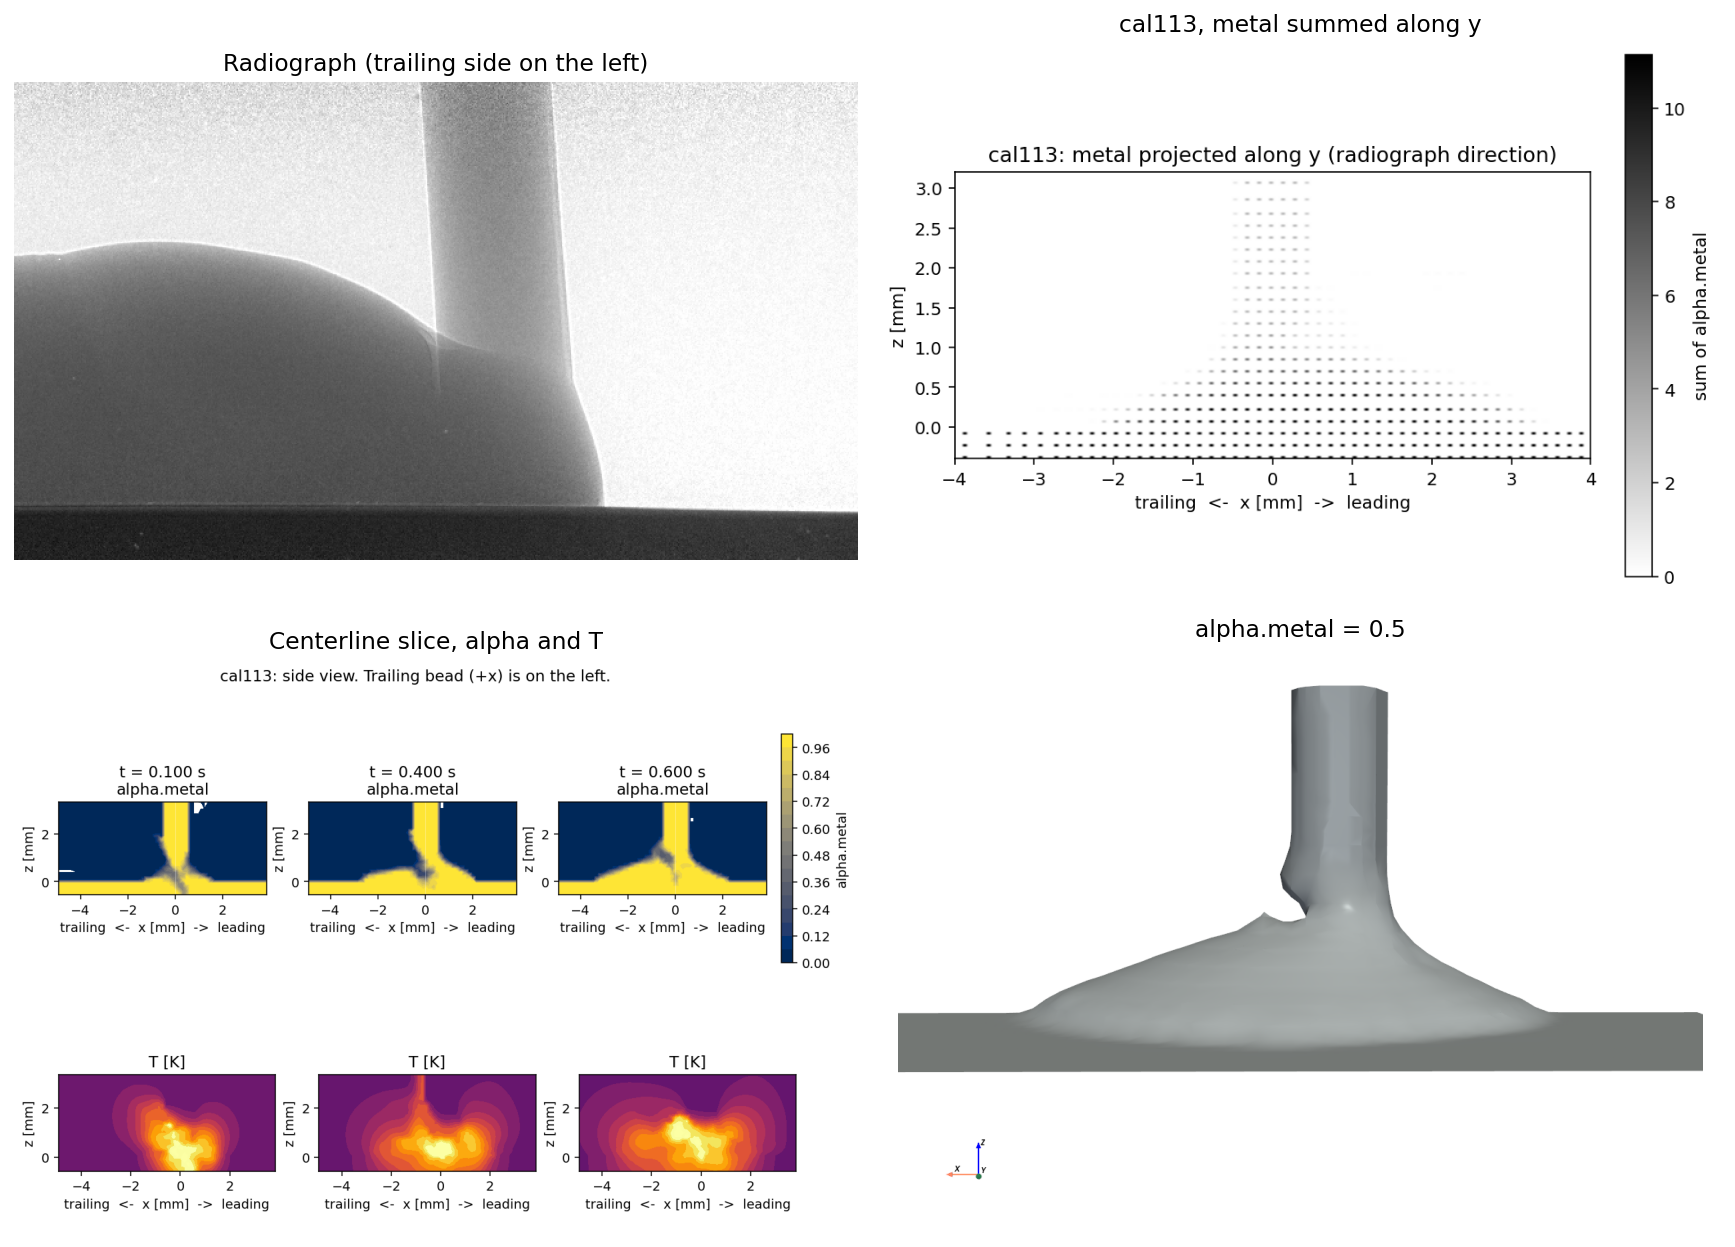
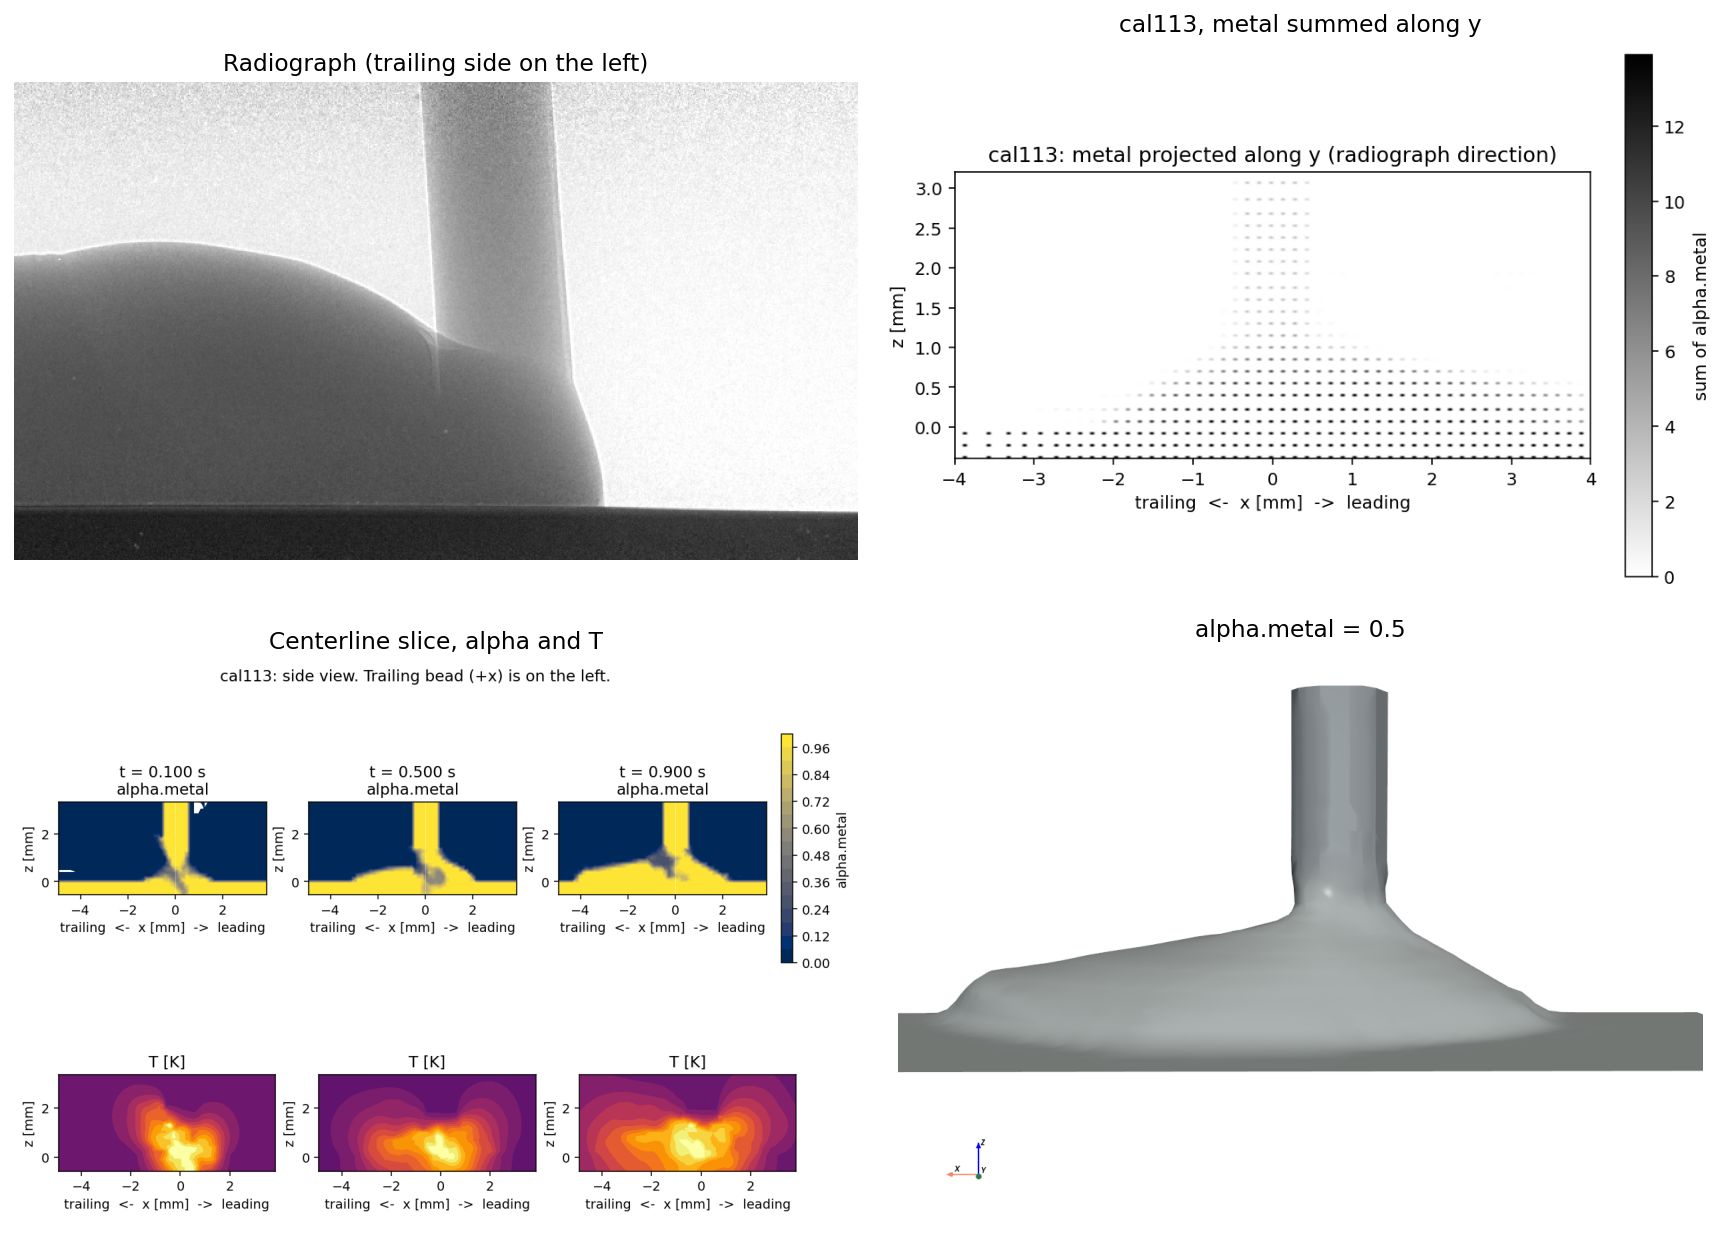
Post cal114 at score 8. The preheated crest does not hold.
cal114 at 0.70 s has a 1.91 / 1.15 mm dome, a wetted plate, and 9 of 15
columns melted, with no pool bubble. cal113's crest falls to 0.84 mm
by 0.90 s. cal115 lowers the wire floor on the cal114 heat.

diff --git a/results/calibration/taosun03/score_screens.py b/results/calibration/taosun03/score_screens.py
@@ -106,6 +106,7 @@ QUESTIONS = {
     "cal112": "pinned trail 15/50 with hotter fronts",
     "cal113": "wire floor 10/70 on the cal111 fused dome",
     "cal114": "cal103 notch with substrate absorptivity 0.65",
+    "cal115": "cal114 heat with the wire floor lowered to 15",
 }
 
 # 316L solidus. A column counts as fused only when the plate surface exceeds this.

diff --git a/results/calibration/taosun03/README.md b/results/calibration/taosun03/README.md
@@ -218,7 +218,8 @@ The plate window on cal08 is 110°/150°. The molten line sits near 50°, so eve
 | cal111 | 20°/55° | same as cal110 | trail pin 20°/45° over 45° of +x, to 0.60 s |
 | cal112 | 20°/55° | absorptivity 0.60, preheat 800 K, fronts 180 W | trail pin 15°/50° over 60° of +x, to 0.60 s |
 | cal113 | 20°/55° | same heat as cal111 | wire floor 10°/70° over 60° of +x, to 0.65 s |
-| cal114 | 10°/40° | substrate absorptivity 0.65, no preheat | cal103 notch (trail 30°/100°), to 0.70 s |
+| cal114 | 10°/40° | substrate absorptivity 0.65, no preheat | cal103 notch (trail 30°/100°), to 0.70 s, then 1.00 s |
+| cal115 | 10°/40° | same as cal114 | wire floor 15°/80°, to 0.55 s |
 
 A run that wets the plate and melts the substrate is continued to at least 0.60 s. The wire angle on these heated plates sits near 17–33°. A 30°/100° trail puts the low end of that outside the window, so those cells recede. cal110–cal112 put a pinning window on the trailing face only. An open wake on these screens is not the target. No run has a closed bubble of 0.05–0.3 mm. Pinch-offs stay one-cell and mobile.
 
@@ -269,4 +270,8 @@ cal103's 39° wire angle is why 30°/100° pins every cell at 0.65 s. By 0.90 s 
 
 cal113 is that preheated pool with the wire floor lowered to 10° and the ceiling at 70°, on a 60° trailing sector. At 0.65 s it is the first run to take the dome, the notch, and a fully melted plate together: trail 1.61 mm, lead 0.99 mm, 11 of 11 columns melted, no receding plate cell, no gas sheet, 10 of 15 wire cells pinned from 1.45 to 1.76 mm. Score 8. The cavity report is still open, 2.77 mm³, and the only gas pores sit below the plate (z ≈ −0.6 mm), so nothing in the pool scores. Center-plane cut: `cal113_side_alpha_T.png`. It is continued to 0.90 s. The 0.65 s copy is `cal113_0p65_side_alpha_T.png`.
 
-cal114 is cal103's pinned notch with substrate absorptivity raised from 0.55 to 0.65, and no preheat, to melt more of the trail columns. It is still running.
+cal114 is cal103's pinned notch with substrate absorptivity raised from 0.55 to 0.65, and no preheat. At 0.70 s it matches cal113's score of 8 from the other direction: trail 1.91 mm, lead 1.15 mm, 9 of 15 columns melted, no receding plate cell, 6 of 10 wire cells pinned from 1.45 to 1.76 mm (mean 29°, four cells still under the 30° floor). No closed bubble. The open wake is still there. It is continued to 1.00 s. Center-plane cut: `cal114_side_alpha_T.png`.
+
+cal113 at 0.90 s loses the crest the same way cal108 did. The trail is 0.84 mm and the lead is 0.99 mm, with the plate still wetted and 18 of 18 columns melted. Score 3. The score-8 slice remains the 0.65 s cut. The preheated pool is not continued further.
+
+cal115 keeps cal114's plate, power, and absorptivity, and lowers the wire floor from 30° to 15° so the 29° cells pin. It runs to 0.55 s.
